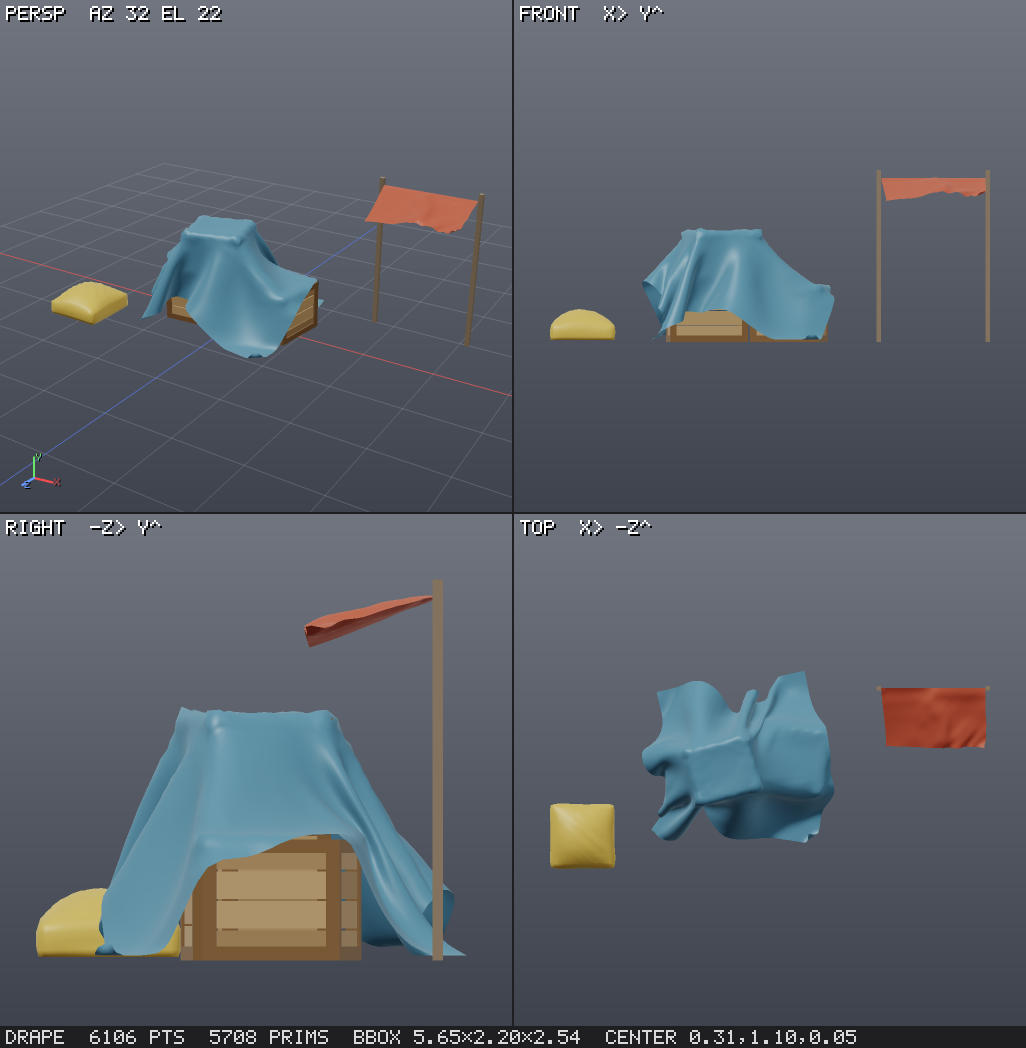
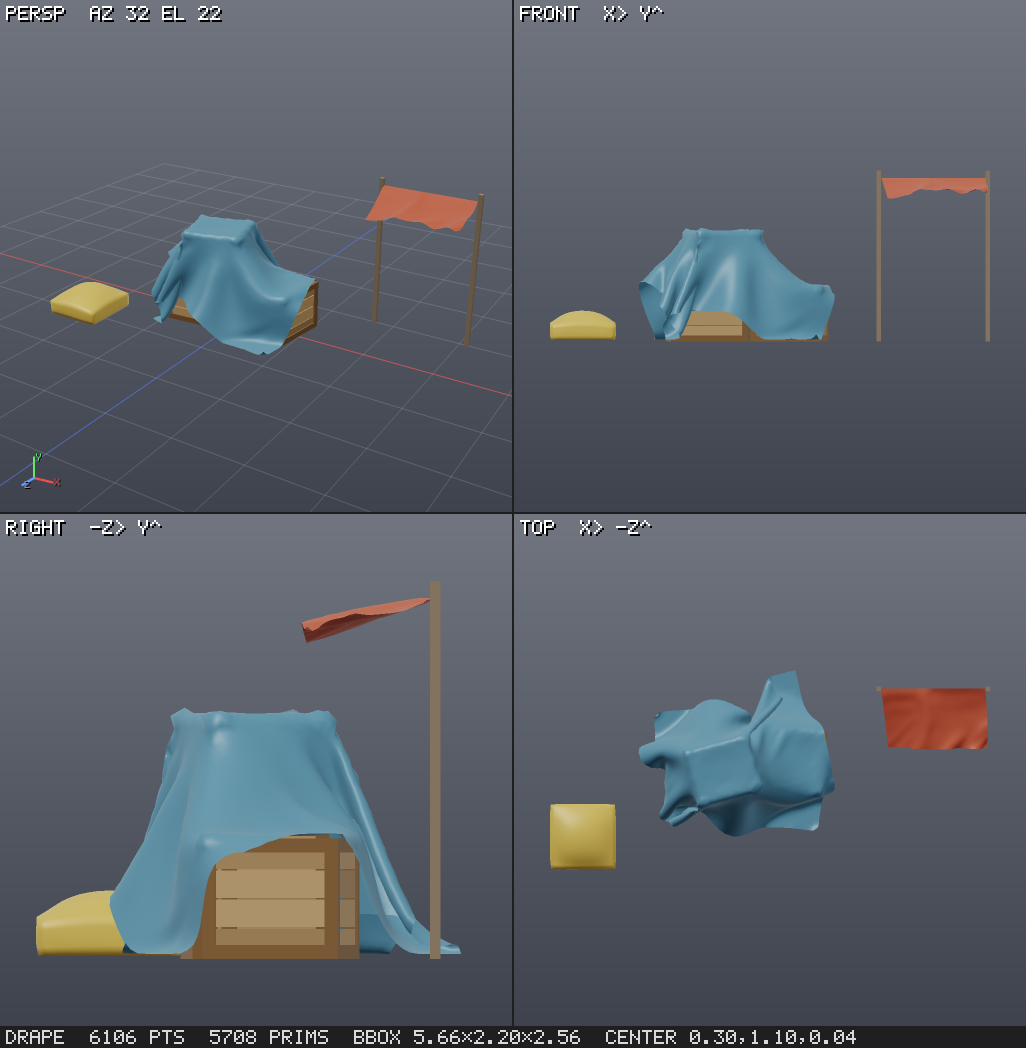
Cloth: stable sweep order, smooth inflation
- sweeps alternate direction within a substep and restart forward at the next:
  alternating across substeps with one sweep each pumped a period-2 mode (a
  closed sphere crumpled from a 1e-3 jitter)
- inflate solves stretch point-wise (exact chains buckle into lumps under the
  volume push) and ramps the target volume over the first half of the steps;
  a sphere at pressure 1.5 now stays round (1% vs 24%), the balloon recipe works
- goldens, drape render and docs updated

diff --git a/src/core/xpbd.ts b/src/core/xpbd.ts
@@ -34,7 +34,8 @@
 //
 // Determinism: the point-wise constraint arrays are sorted by a greedy graph colouring (no two constraints of one colour
 // share a point), so a sweep is Gauss-Seidel across colours and Jacobi within one (the order inside a colour does not
-// matter, which a parallel solve would need); chains run in their build order. Every sweep alternates direction. The
+// matter, which a parallel solve would need); chains run in their build order. Sweeps within a substep alternate
+// direction (forward first: alternating across substeps with one sweep each pumped a period-2 mode). The
 // solve itself runs on one thread in that fixed order; only the collision queries (collideRange, the kernel
 // "cloth_collide") may run in chunks, and they are pure per point, so results are the same bits with or without a pool.
 //
@@ -780,6 +781,8 @@ export interface SimOptions {
   /** volume constraint (inflate): target / rest volume, and its stiffness in N/m (0 = no volume constraint) */
   pressure?: number;
   pressureStiffness?: number;
+  /** steps over which the pressure rises from 1 to its value (0 = at once); an instant jump would throw the cloth outwards */
+  pressureRamp?: number;
 }
 
 /** Simulation state of a cloth model. Positions start at `x0`; pinned points never move. */
@@ -826,6 +829,9 @@ export class XpbdCloth {
   vRest = 0;
   vSign = 1;
   vAlpha = 0;
+  /** current target volume ratio (ramps to o.pressure) and the number of steps taken */
+  vTarget = 1;
+  stepIndex = 0;
   private dAlphaT: Float64Array;
   private dInvDen: Float64Array;
   private bAlphaT: Float64Array;
@@ -840,7 +846,6 @@ export class XpbdCloth {
   private penC: Float64Array;
   private grad: Float64Array | null = null;
   private acc: Float64Array | null = null;
-  private sweep = 0;
   /** first distance constraint of the one-by-one sweep (nStretch when the stretch edges are solved as chains) */
   private firstPoint = 0;
   /** chain solve scratch per link: direction, inverse pivot, eliminated super-diagonal, right-hand side / Δλ */
@@ -1092,6 +1097,12 @@ export class XpbdCloth {
     const gx = o.gravity[0], gy = o.gravity[1], gz = o.gravity[2];
     const damp = Math.exp(-Math.max(0, o.damping) * h);
     if (this.acc) this.aero();
+    if (this.grad) {
+      // inflate gradually: the target volume ratio rises from 1 to the pressure along a smoothstep over pressureRamp steps
+      const ramp = this.o.pressureRamp ?? 0, u = ramp > 0 ? Math.min(1, (this.stepIndex + 1) / ramp) : 1;
+      this.vTarget = 1 + ((this.o.pressure ?? 1) - 1) * u * u * (3 - 2 * u);
+    }
+    this.stepIndex++;
     const acc = this.acc;
     for (let sub = 0; sub < o.substeps; sub++) {
       for (let i = 0; i < n; i++) {
@@ -1110,7 +1121,9 @@ export class XpbdCloth {
       this.penF.fill(0);
       this.penC.fill(0);
       for (let it = 0; it < o.iterations; it++) {
-        const fwd = (this.sweep++ & 1) === 0;
+        // forward, backward, ... within a substep, forward again at the next: alternating across substeps with one sweep each
+        // pumps a period-2 mode (a closed sphere crumpled from a 1e-3 jitter), a symmetric sweep within a substep does not
+        const fwd = (it & 1) === 0;
         // soft and point-wise constraints first; the stiff, contact-aware stretch chains last before the contacts
         if (lam) this.solveDistances(fwd); else this.solveDistancesOnce(fwd);
         if (this.m.bAlpha.length) this.solveBends(fwd, lam);
@@ -1396,7 +1409,7 @@ export class XpbdCloth {
       gr[c] += ay * bz - az * by; gr[c + 1] += az * bx - ax * bz; gr[c + 2] += ax * by - ay * bx;
     }
     V = (sign * V) / 6;
-    const C = V - (this.o.pressure ?? 1) * this.vRest;
+    const C = V - this.vTarget * this.vRest;
     let den = 0;
     const s6 = sign / 6;
     for (let i = 0; i < this.n; i++) {

diff --git a/src/nodes/cloth.ts b/src/nodes/cloth.ts
@@ -87,6 +87,9 @@ async function simulate(ctx: CookContext, mode: 'drape' | 'inflate'): Promise<Ge
   const model = buildCloth(g, {
     density: p.density, stretch: p.stretch_stiffness, shear: p.shear_stiffness, bend: p.bend_stiffness, restScale: p.rest_scale,
     mass: massAttr && massAttr.type === 'float' && massAttr.size === 1 ? (massAttr.data as Float64Array) : null,
+    // inflate solves stretch point by point: exactly solved chains are inextensible hoops that buckle (lumps) when the
+    // volume pushes outwards; the point-wise sweep lets the skin stretch evenly
+    chains: mode !== 'inflate',
   });
   if (mode === 'inflate') {
     if (!model.tris.length) throw new NodeError('inflate: the input has no polygons', 'inflate needs a closed polygon mesh (box, sphere, a closed sack)');
@@ -134,7 +137,7 @@ async function simulate(ctx: CookContext, mode: 'drape' | 'inflate'): Promise<Ge
     wind: p.wind, thickness: p.thickness, friction: p.friction, floor: !!p.floor, floorHeight: p.floor_height,
     selfCollision: !!p.self_collision, tethers: !!p.tethers,
   };
-  if (mode === 'inflate') { opts.pressure = p.pressure; opts.pressureStiffness = p.pressure_stiffness; }
+  if (mode === 'inflate') { opts.pressure = p.pressure; opts.pressureStiffness = p.pressure_stiffness; opts.pressureRamp = Math.ceil(p.steps / 2); }
   const sim = new XpbdCloth(model, opts, x0, v0, pinned);
 
   let collider: Collider | null = null;
@@ -227,8 +230,10 @@ defineNode({
     'Simulates the `geo` input as a closed cloth bag whose volume is driven towards `pressure` × its rest volume, against the ' +
     'same stretch, shear and bend constraints as drape (and the same collider, floor, pins and wind). pressure 1 keeps ' +
     'the volume, 1.5 puffs a box into a cushion, < 1 deflates it; pressure_stiffness sets how hard the volume pushes ' +
-    'against the cloth (a stiff cloth caps the volume). Gravity and the floor are off by default (the shape inflates in ' +
-    'place); turn them on to rest a cushion on the ground. Houdini: Vellum Pressure constraint.',
+    'against the cloth (a stiff cloth caps the volume: a sphere needs a soft stretch_stiffness to grow, a box bulges into a ' +
+    'pillow). The pressure rises smoothly over the first half of the steps, and the skin is solved edge by edge so it ' +
+    'stretches evenly. Gravity and the floor are off by default (the shape inflates in place); turn them on to rest a ' +
+    'cushion on the ground. Houdini: Vellum Pressure constraint.',
   aliases: ['vellum_pressure', 'pressure', 'balloon'],
   inputs: [{ ...INPUTS[0], name: 'geo', desc: 'a closed polygon mesh (box, sphere, a sewn sack)' }, INPUTS[1], INPUTS[2]],
   params: {

diff --git a/docs/DESIGN.md b/docs/DESIGN.md
@@ -480,8 +480,12 @@ drape by driving `steps` with `=frame` (each frame re-simulates) or feeds a solv
   instead of pushing them in, where the contact projection would undo it (a rope over a box kept its edge link 20 %
   long). A sweep runs the point-wise constraints (shear, bend, tethers, volume, self collision) first and the chains
   last before the contacts, so the stiffest constraint has the last word. Measured (60 × 60 cloth, 150 steps, defaults):
-  hanging cloth max strain 0.7 % without tethers, 0.03 % with them; tablecloth over a box mean 0.8 % (the remaining peaks
-  are the one quad that tents over each sharp top corner); over a sphere mean 0.5 %, p99 3.2 % (was 9.2 % / 61 %).
+  hanging cloth max strain 3 % without tethers, 0.00 % with them; tablecloth over a box mean 0.9 % (the remaining peaks
+  are the one quad that tents over each sharp top corner); over a sphere mean 0.5 %, p99 3.1 % (was 9.2 % / 61 %).
+  `inflate` solves stretch point-wise instead: exact chains are inextensible hoops, which buckle into lumps when the
+  volume constraint pushes outwards (a sphere at pressure 1.5 ended 24 % out of round), while the point-wise sweep lets
+  the skin stretch evenly (1 %). Its target volume also rises along a smoothstep over the first half of the steps: the
+  volume constraint is effectively hard, and a jump to the full target threw the skin outwards in one substep.
 - **Collisions** are speculative contact planes found once per step (`collideRange`, kernel `cloth_collide`): a point
   within its query radius (1.5 × thickness plus twice its travel in the step) of a collider triangle gets the plane
   through the closest point with the normal towards its side; the substeps keep it `thickness` in front. On closed,
@@ -498,7 +502,9 @@ drape by driving `steps` with `=frame` (each frame re-simulates) or feeds a solv
   distance found at its last query (a miss searches twice the radius) minus its travel exceeds the radius, and the BVH
   search starts from the point's last triangle; on the 100 × 100 drape this halves the query time.
 - **Determinism and threads.** The point-wise constraints are colour-sorted (no two constraints of a colour share a point),
-  chains run in build order, sweeps alternate direction, and the solve runs on the cooking thread. Only the collider
+  chains run in build order, sweeps within a substep alternate direction starting forward (alternating across substeps
+  with one sweep each pumped a period-2 mode: a closed sphere crumpled from a 10⁻³ jitter), and the solve runs on the
+  cooking thread. Only the collider
   queries go through `ctx.parallelMap`; they are pure per point, so a cook is bit-identical with and without the pool
   (test/cloth.ts checks it with a forced pool).
 - **Limits** (against Vellum): static colliders only; per-point collision plus corner contacts (a sharp collider edge

diff --git a/docs/nodes.md b/docs/nodes.md
@@ -10545,7 +10545,7 @@ category: `sim` · aliases: `vellum_pressure`, `pressure`, `balloon`
 
 Inflate a closed mesh with an XPBD volume constraint (Vellum pressure): cushions, balloons, bulging sacks.
 
-Simulates the `geo` input as a closed cloth bag whose volume is driven towards `pressure` × its rest volume, against the same stretch, shear and bend constraints as drape (and the same collider, floor, pins and wind). pressure 1 keeps the volume, 1.5 puffs a box into a cushion, < 1 deflates it; pressure_stiffness sets how hard the volume pushes against the cloth (a stiff cloth caps the volume). Gravity and the floor are off by default (the shape inflates in place); turn them on to rest a cushion on the ground. Houdini: Vellum Pressure constraint.
+Simulates the `geo` input as a closed cloth bag whose volume is driven towards `pressure` × its rest volume, against the same stretch, shear and bend constraints as drape (and the same collider, floor, pins and wind). pressure 1 keeps the volume, 1.5 puffs a box into a cushion, < 1 deflates it; pressure_stiffness sets how hard the volume pushes against the cloth (a stiff cloth caps the volume: a sphere needs a soft stretch_stiffness to grow, a box bulges into a pillow). The pressure rises smoothly over the first half of the steps, and the skin is solved edge by edge so it stretches evenly. Gravity and the floor are off by default (the shape inflates in place); turn them on to rest a cushion on the ground. Houdini: Vellum Pressure constraint.
 
 **Inputs**
 
